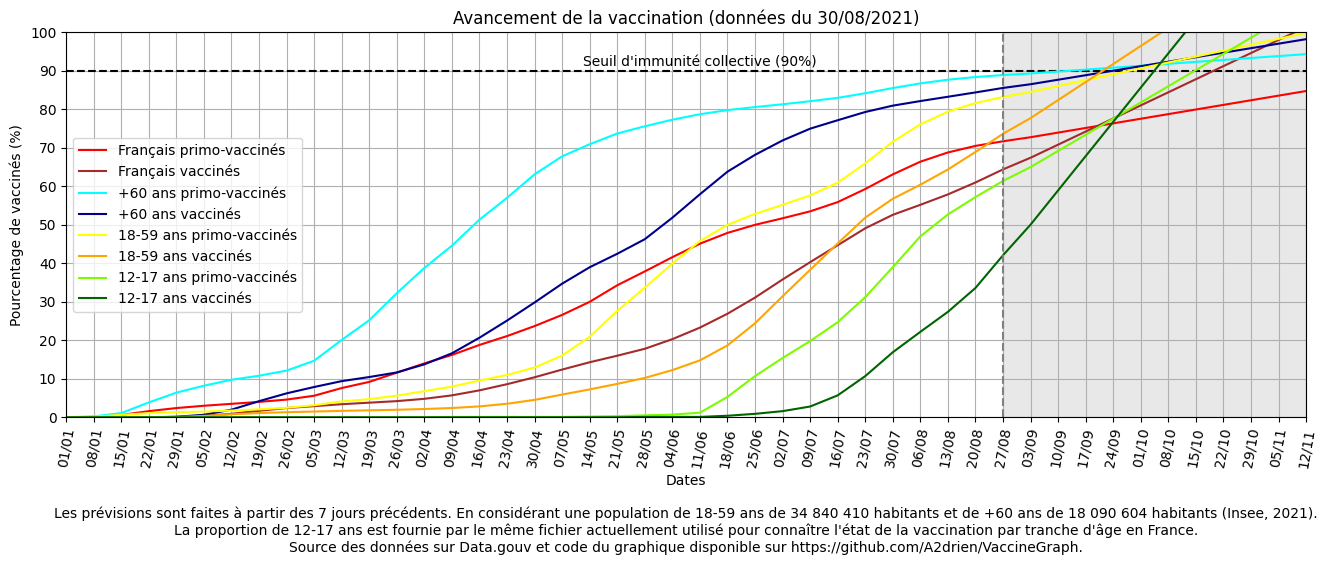
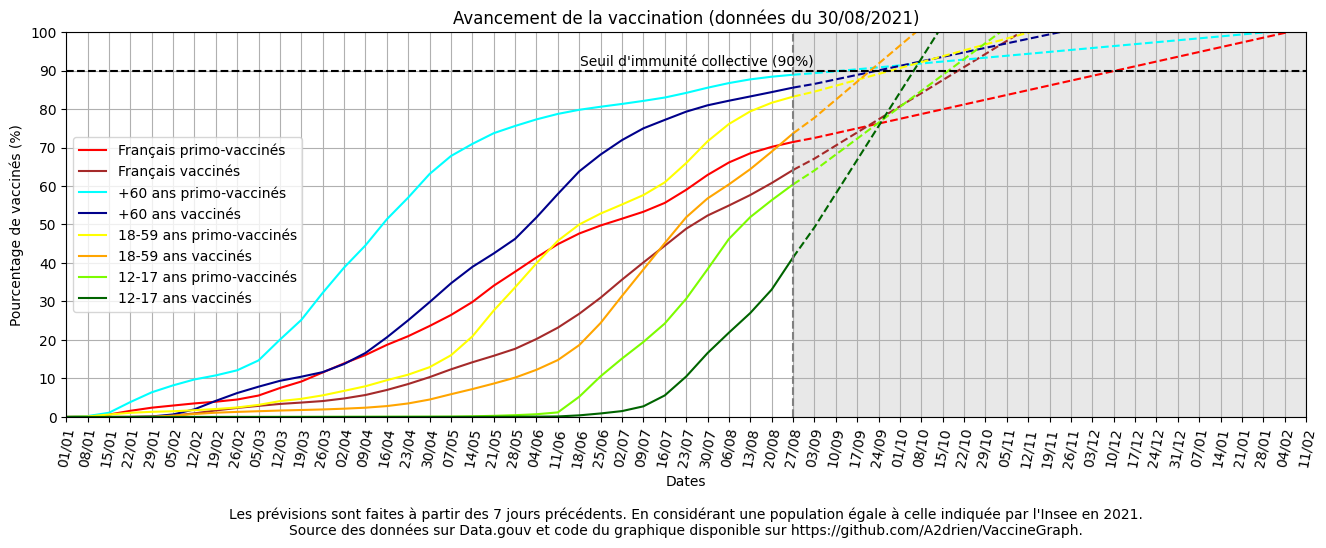
Ajout des pointillé pour les valeurs prévisionnelles

Changed region(s): [[0.0, 0.0, 0.9894, 0.9927]]

diff --git a/scriptVaccination.py b/scriptVaccination.py
@@ -4,7 +4,7 @@ import matplotlib.pyplot as plt
 import numpy as np
 
 
-nom_fichier = "vacsi-a-fra-2021-08-30-19h05.csv"                                #Nom du fichier de données à traiter
+nom_fichier = "vacsi-a-fra-2021-08-31-19h05.csv"                                #Nom du fichier de données à traiter
 
 #Paramètres du graphique
 limite_date_debut = "2021-01-01"                                                #Indique la première date des données (0 pour conserver la liste)
@@ -276,16 +276,18 @@ for i in range(len(liste_dates)): liste_dates[i] = liste_dates[i][8:11]+"/"+list
 
 liste_dates_reduite = ecartDate(reduction(liste_dates))                         #Réduit la liste de dates tout en conservant l'original
     
-for i in range(len(liste_courbes)): plt.plot(liste_dates_reduite, ecartDate(reduction(projectionObjectif(liste_courbes[i]))), liste_couleur[i], label = liste_titre[i])
+for i in range(len(liste_courbes)):
+    plt.plot(liste_dates_reduite[:position_date_limite//limite_ecart_jour+1], ecartDate(reduction(projectionObjectif(liste_courbes[i])))[:position_date_limite//limite_ecart_jour+1], liste_couleur[i], label = liste_titre[i])
+    plt.plot(liste_dates_reduite[position_date_limite//limite_ecart_jour:], ecartDate(reduction(projectionObjectif(liste_courbes[i])))[position_date_limite//limite_ecart_jour:], liste_couleur[i], linestyle = '--')
 
 
-#Trace une ligne de pointillé verticale au niveau des 100% si le seuil d'immunité collective n'est pas égal à 0
+#Trace une ligne de pointillé horizontale au niveau des 100% si le seuil d'immunité collective n'est pas égal à 0
 if seuil_immunite_collective != 0: plt.axhline(y = 100 * seuil_immunite_collective, color = 'black', linestyle = '--')
 
 #Trace une ligne de pointillé horizontale indiquant le seuil d'immunité colllective
 plt.text(len(liste_dates_reduite)/2, 100 *seuil_immunite_collective + 1.2, f"Seuil d'immunité collective ({int(seuil_immunite_collective*100)}%)", horizontalalignment = 'center')
 
-#Trace une zone en gris clair délimitée par une ligne verticales en pointillé pour désigner les prédictions des courbes (si les données n'ont pas été raccourcis)
+#Trace une zone en gris clair délimitée par une ligne verticale en pointillé pour désigner les prédictions des courbes (si les données n'ont pas été raccourcies)
 if empecher_valeurs_previsionnelles == False:
     plt.axvline(x = liste_dates_reduite[position_date_limite//limite_ecart_jour], color = 'gray', linestyle = '--')
     plt.axvspan(liste_dates_reduite[position_date_limite//limite_ecart_jour], liste_dates_reduite[-1], alpha = 0.5, color = 'lightgray')
